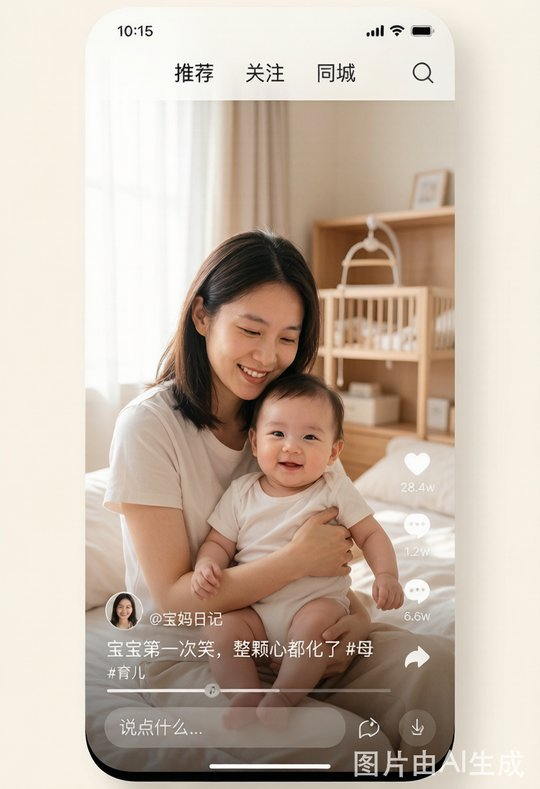
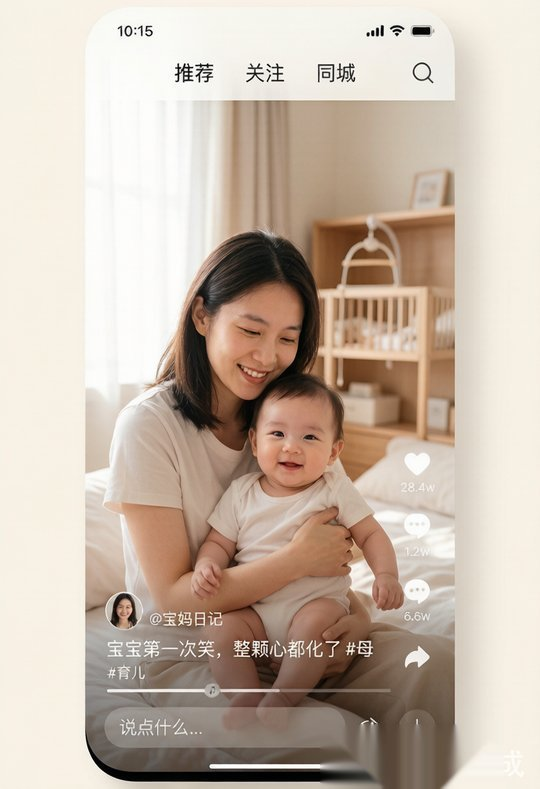
fix: 去除案例图AI生成水印，案例区改为横向滑动展示

Changed region(s): [[0.5926, 0.9125, 0.8889, 1.0]]

diff --git a/styles.css b/styles.css
@@ -526,16 +526,35 @@ mark { background: transparent; color: var(--green-text); font-weight: 900; }
   color: var(--green-text);
   font-size: 14px;
   letter-spacing: 0.14em;
-  margin: 0 0 30px;
+  margin: 0 0 8px;
   font-weight: 600;
 }
-.case-grid {
-  display: grid;
-  grid-template-columns: repeat(4, 1fr);
-  gap: 22px;
+.case-hint {
+  text-align: center;
+  color: var(--ink-soft);
+  font-size: 12px;
+  letter-spacing: 0.1em;
+  margin: 0 0 24px;
+  opacity: 0.7;
 }
+.case-grid {
+  display: flex;
+  gap: 18px;
+  overflow-x: auto;
+  scroll-snap-type: x mandatory;
+  padding-bottom: 14px;
+  -webkit-overflow-scrolling: touch;
+  scrollbar-width: thin;
+  scrollbar-color: var(--green-text) rgba(255,255,255,0.08);
+}
+.case-grid::-webkit-scrollbar { height: 6px; }
+.case-grid::-webkit-scrollbar-thumb { background: var(--green-text); border-radius: 3px; }
+.case-grid::-webkit-scrollbar-track { background: rgba(255,255,255,0.08); border-radius: 3px; }
 .case-item {
   margin: 0;
+  flex: 0 0 auto;
+  width: 230px;
+  scroll-snap-align: start;
   display: flex;
   flex-direction: column;
 }
@@ -560,12 +579,9 @@ mark { background: transparent; color: var(--green-text); font-weight: 900; }
   color: var(--ink-soft);
   letter-spacing: 0.04em;
 }
-@media (max-width: 960px) {
-  .case-grid { grid-template-columns: repeat(3, 1fr); gap: 18px; }
-}
 @media (max-width: 600px) {
-  .case-grid { grid-template-columns: repeat(2, 1fr); gap: 14px; }
-  .case-eyebrow { margin-bottom: 22px; }
+  .case-item { width: 165px; }
+  .case-eyebrow { margin-bottom: 16px; }
 }
 .standard-story {
   max-width: 900px;

diff --git a/index.html b/index.html
@@ -574,6 +574,7 @@
 
         <div class="case-showcase reveal">
           <p class="case-eyebrow">八大内容赛道 · 真实落地案例</p>
+          <p class="case-hint">← 左右滑动查看全部赛道 →</p>
           <div class="case-grid">
             <figure class="case-item"><img src="images/cases/case-pet.jpg" alt="宠物赛道短视频案例" loading="lazy" decoding="async"><figcaption>宠物</figcaption></figure>
             <figure class="case-item"><img src="images/cases/case-talk.jpg" alt="口播赛道短视频案例" loading="lazy" decoding="async"><figcaption>口播</figcaption></figure>
